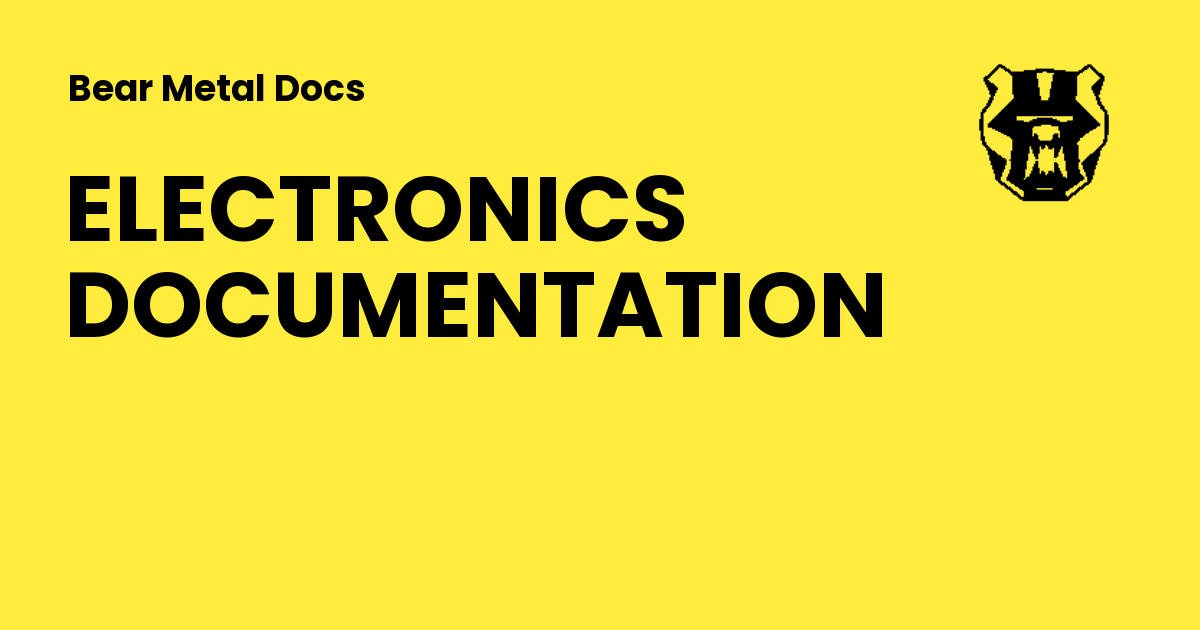
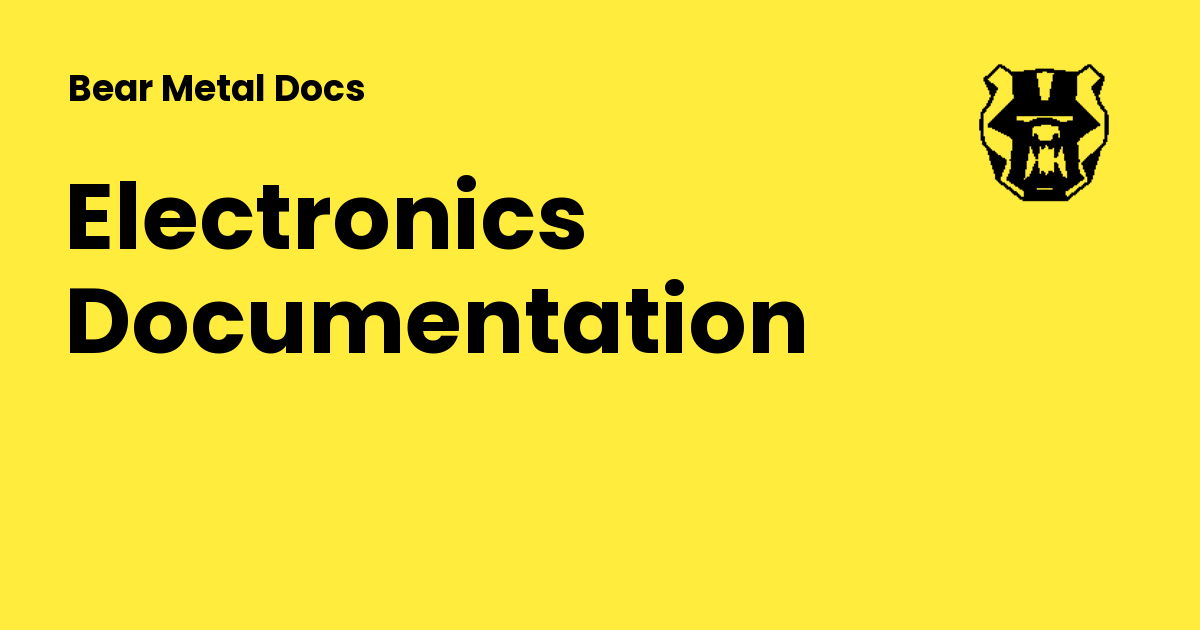
Deployed 23918e0 with MkDocs version: 1.6.0

Changed region(s): [[0.0617, 0.2714, 0.74, 0.573]]

diff --git a/electronics/index.html b/electronics/index.html
@@ -18,7 +18,7 @@
     
     
       
-        <title>ELECTRONICS DOCUMENTATION - Bear Metal Docs</title>
+        <title>Electronics Documentation - Bear Metal Docs</title>
       
     
     
@@ -53,7 +53,7 @@
       
         <meta  property="og:type"  content="website" >
       
-        <meta  property="og:title"  content="ELECTRONICS DOCUMENTATION - Bear Metal Docs" >
+        <meta  property="og:title"  content="Electronics Documentation - Bear Metal Docs" >
       
         <meta  property="og:description"  content="None" >
       
@@ -69,7 +69,7 @@
       
         <meta  name="twitter:card"  content="summary_large_image" >
       
-        <meta  name="twitter:title"  content="ELECTRONICS DOCUMENTATION - Bear Metal Docs" >
+        <meta  name="twitter:title"  content="Electronics Documentation - Bear Metal Docs" >
       
         <meta  name="twitter:description"  content="None" >
       
@@ -129,7 +129,7 @@
         <div class="md-header__topic" data-md-component="header-topic">
           <span class="md-ellipsis">
             
-              ELECTRONICS DOCUMENTATION
+              Electronics Documentation
             
           </span>
         </div>
@@ -693,7 +693,7 @@
                   
 
 
-<h1 id="electronics-documentation">ELECTRONICS DOCUMENTATION</h1>
+<h1 id="electronics-documentation">Electronics Documentation</h1>
 <hr />
 <blockquote>
 <p>This site is a knowledge base for the electrical components and practices we use on the electrical subteam. Expect missing information as I am actively working on compiling information.
